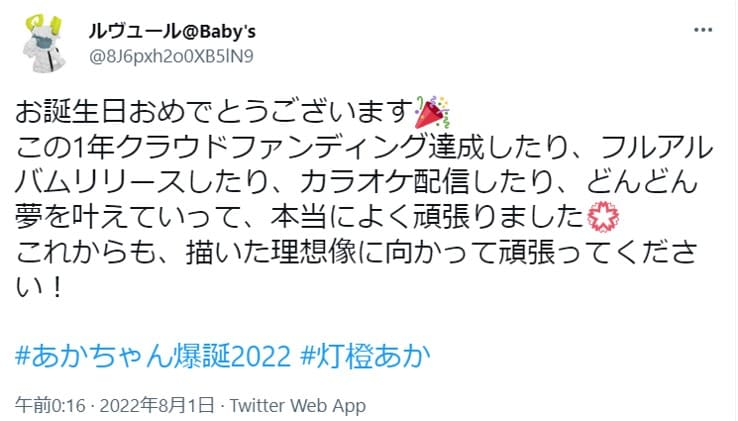
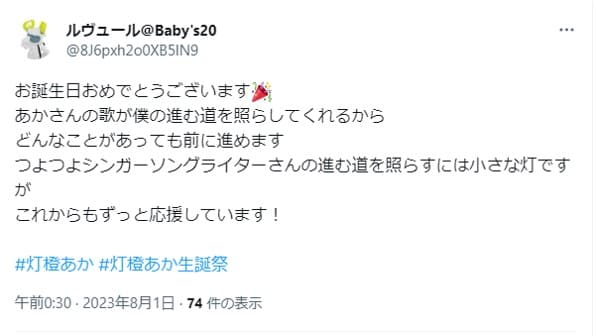
first_commit

diff --git a/info.js b/info.js
@@ -1,126 +1,10 @@
 const tweets = {
-  ukyo: {
-    img: "ukyo.jpg",
-    url: "https://twitter.com/OuSkNySo_1116/status/1553841651713335296",
-  },
   tacchan: {
     img: "tacchan.jpg",
-    url: "https://twitter.com/Uekid1/status/1553760874652770305",
-  },
-  chiya: {
-    img: "chiya.jpg",
-    url: "https://twitter.com/chiya__k2305/status/1553760797184393216",
-  },
-  hatomo: {
-    img: "hatomo.jpg",
-    url: "https://twitter.com/hatomo2192/status/1553900650941284354",
-  },
-  ryosuke: {
-    img: "ryosuke.jpg",
-    url: "https://twitter.com/R_atslh/status/1553757771283451904",
-  },
-  yuna: {
-    img: "yuna.jpg",
-    url: "https://twitter.com/KnwRwi/status/1553757386019852288",
-  },
-  murakami: {
-    img: "murakami.jpg",
-    url: "https://twitter.com/kaiyouseimei214/status/1553773282133831680",
-  },
-  ady: {
-    img: "ady.jpg",
-    url: "https://twitter.com/mABxYpubO4HVZCP/status/1553758872720265218",
-  },
-  fuka: {
-    img: "fuka.jpg",
-    url: "https://twitter.com/fuu_qk_YouTube/status/1553760013294141442",
-  },
-  klee: {
-    img: "klee.jpg",
-    url: "https://twitter.com/klee34293156/status/1553757685195354113",
-  },
-  obtam: {
-    img: "obtam.jpg",
-    url: "https://twitter.com/osihaidai870/status/1553769294110261253",
-  },
-  kentaro: {
-    img: "kentaro.jpg",
-    url: "https://twitter.com/plusbox1112/status/1553758926511824898",
-  },
-  kenmaru: {
-    img: "kenmaru.jpg",
-    url: "https://twitter.com/yamaken_0802/status/1553875460995825664",
-  },
-  kensu: {
-    img: "kensu.jpg",
-    url: "https://twitter.com/kenken00924/status/1553889496986693632",
-  },
-  oz: {
-    img: "oz.jpg",
-    url: "https://twitter.com/oz_babys/status/1553874323340857346",
-  },
-  takumi: {
-    img: "takumi.jpg",
-    url: "https://twitter.com/tkmiiii_1118/status/1553761102105718785",
-  },
-  sixstu: {
-    img: "6stu.jpg",
-    url: "https://twitter.com/6studio_dtm/status/1553797220864249856",
-  },
-  ytkbt: {
-    img: "ytkbt.jpg",
-    url: "https://twitter.com/ytkbt/status/1553902034952237056",
-  },
-  momo: {
-    img: "momo.jpg",
-    url: "https://twitter.com/moe__021/status/1553766709756334081",
-  },
-  ayuka: {
-    img: "ayuka.jpg",
-    url: "https://twitter.com/Ayukababys1/status/1553758113941319680",
-  },
-  miyukiB: {
-    img: "miyukiB.jpg",
-    url: "https://twitter.com/MiYUKi_Akachan/status/1553757733320794112",
-  },
-  miyukiL: {
-    img: "miyukiL.jpg",
-    url: "https://twitter.com/MiYUKi_Akachan/status/1553757733320794112",
-  },
-  ryuuu: {
-    img: "ryuuu.jpg",
-    url: "https://twitter.com/Gin_Weed__Orion/status/1553760327724318721",
-  },
-  koto1: {
-    img: "koto1.jpg",
-    url: "https://twitter.com/Babys_08/status/1554108838567358465",
-  },
-  koto2: {
-    img: "koto2.jpg",
-    url: "https://twitter.com/Babys_08/status/1554112905452597248",
-  },
-  koto3: {
-    img: "koto3.jpg",
-    url: "https://twitter.com/Babys_08/status/1554113286714830848",
-  },
-  koto4: {
-    img: "koto4.jpg",
-    url: "https://twitter.com/Babys_08/status/1554113432412372993",
-  },
-  touno: {
-    img: "touno.jpg",
-    url: "https://twitter.com/touno_karin/status/1554074975497486341",
-  },
-  britain: {
-    img: "britain.jpg",
-    url: "https://twitter.com/Britain07986875/status/1554091181092401153",
-  },
-  raito: {
-    img: "raito.jpg",
-    url: "https://twitter.com/prdoZkHbDAfVZDp/status/1554079442318000129",
+    url: "https://twitter.com/T_sakura_0113/status/1686044660270235648",
   },
   levu: {
     img: "levu.jpg",
-    url: "https://twitter.com/8J6pxh2o0XB5lN9/status/1553761472928309248",
+    url: "https://twitter.com/8J6pxh2o0XB5lN9/status/1686036604450926593",
   },
 };

diff --git a/index.html b/index.html
@@ -11,7 +11,7 @@
       property="og:url"
       content="https://levure-s.github.io/ToodaiBD2022/"
     />
-    <meta property="og:title" content="【非公式】灯橙あか生誕祭2022" />
+    <meta property="og:title" content="【非公式】灯橙あか生誕祭2023" />
     <meta property="og:type" content="article" />
     <meta
       property="og:description"
@@ -31,24 +31,15 @@
   <body>
     <div class="title">
       <div class="img-contaier">
-        <a
+        <!-- <a
           href="https://www.instagram.com/p/CgtlEhUvSMI/?utm_source=ig_web_copy_link"
           target="_blank"
           rel="noopener"
         >
           <img src="./img/FZEfJFTagAASh6m.jpg" />
-        </a>
-        <a
-          href="https://www.instagram.com/p/Cg2QRTUP_Qu/?utm_source=ig_web_copy_link"
-          target="_blank"
-          rel="noopener"
-        >
-          <img
-            src="./img/297257948_1412197035939649_3481000898424377381_n.jpg"
-          />
-        </a>
+        </a> -->
       </div>
-      <h1>あかちゃん爆誕2022</h1>
+      <h1>灯橙あか生誕祭2023</h1>
       <h2>
         <span class="brake1"> 灯橙あかちゃん </span>
         <span class="brake2">生まれてきてくれて</span>
@@ -65,12 +56,13 @@
       var text = "";
       for (key in tweets) {
         let text1 =
-          '<li><a href="' +
-          tweets[key].url +
-          '" target="_blank" rel="noopener">';
-        let text2 = '<img src="./img/' + tweets[key].img + '">';
-        let text3 = "</a></li>";
-        text = text + text1 + text2 + text3;
+          '<li><div class="lantern"><div class="head"><div class="handles"></div></div><div class="body">';
+        let text2 =
+          '<a href="' + tweets[key].url + '" target="_blank" rel="noopener">';
+        let text3 = '<img src="./img/' + tweets[key].img + '">';
+        let text4 = "</a>";
+        let text5 = '</div><div class="foot"></div></div></li>';
+        text = text + text1 + text2 + text3 + text4 + text5;
       }
       $(window).load(function () {
         $("#msg-list").html(text);

diff --git a/css/style.css b/css/style.css
@@ -17,6 +17,7 @@ img {
 .title {
   position: relative;
   padding: 3em;
+  background-color: #e8e3bd;
 }
 .title a {
   display: inline-block;
@@ -47,10 +48,10 @@ img {
 .title h2 {
   font-size: 2em;
   font-family: system-ui;
-  color: #ff1d03;
+  color: #c0554b;
 }
 .msg {
-  background-color: #ff1d03;
+  background-color: #c0554b;
 }
 #msg-list {
   display: flex;
@@ -61,6 +62,7 @@ img {
 #msg-list::after {
   content: "";
   width: 32%;
+  max-width: 450px;
 }
 #msg-list li {
   max-width: 450px;
@@ -68,11 +70,55 @@ img {
   padding-bottom: 1.5em;
 }
 #msg-list li a {
-  display: inline-block;
-  background-color: #fff;
-  border: 10px solid;
-  border-image: linear-gradient(to right bottom, #e0d9b6, #b4983a) 1 / 10px;
-  box-shadow: 0px 0px 20px 10px #706e6e inset;
+  display: flex;
+  align-items: center;
+  height: 100%;
+  background-color: rgba(255, 255, 255, 0.562);
+  padding: 1em 0;
+  box-sizing: border-box;
+}
+.lantern .head {
+  position: relative;
+  padding-top: 10em;
+}
+.lantern .head::before {
+  content: "";
+  position: absolute;
+  background-color: #352c29;
+  width: 95%;
+  padding-top: 1em;
+  bottom: -0.5em;
+  left: 50%;
+  transform: translateX(-50%);
+}
+.lantern .head::after {
+  content: "";
+  position: absolute;
+  background-color: #352c29;
+  width: 3em;
+  padding-top: 2em;
+  bottom: 0;
+  left: 50%;
+  transform: translateX(-50%);
+}
+.lantern .handles {
+  position: absolute;
+  top: 0;
+  border: solid 1px #352c29;
+  border-radius: 50% / 100% 100% 0 0;
+  width: 100%;
+  height: 100%;
+}
+.lantern .body {
+  box-sizing: border-box;
+  width: 90%;
+  height: calc(100% - 10em);
+  margin: auto;
+  border: solid 1em #352c29;
+  background: url(../img/back.jpeg);
+  background-repeat: no-repeat;
+  background-size: cover;
+  background-position: center;
 }
 
 @media (max-width: 900px) {

diff --git a/rantan.html b/rantan.html
@@ -1,0 +1,2 @@
+<div class="lantern"><div class="head"><div class="handles"></div></div><div class="body"></div>
+  <div class="foot"></div></div>
